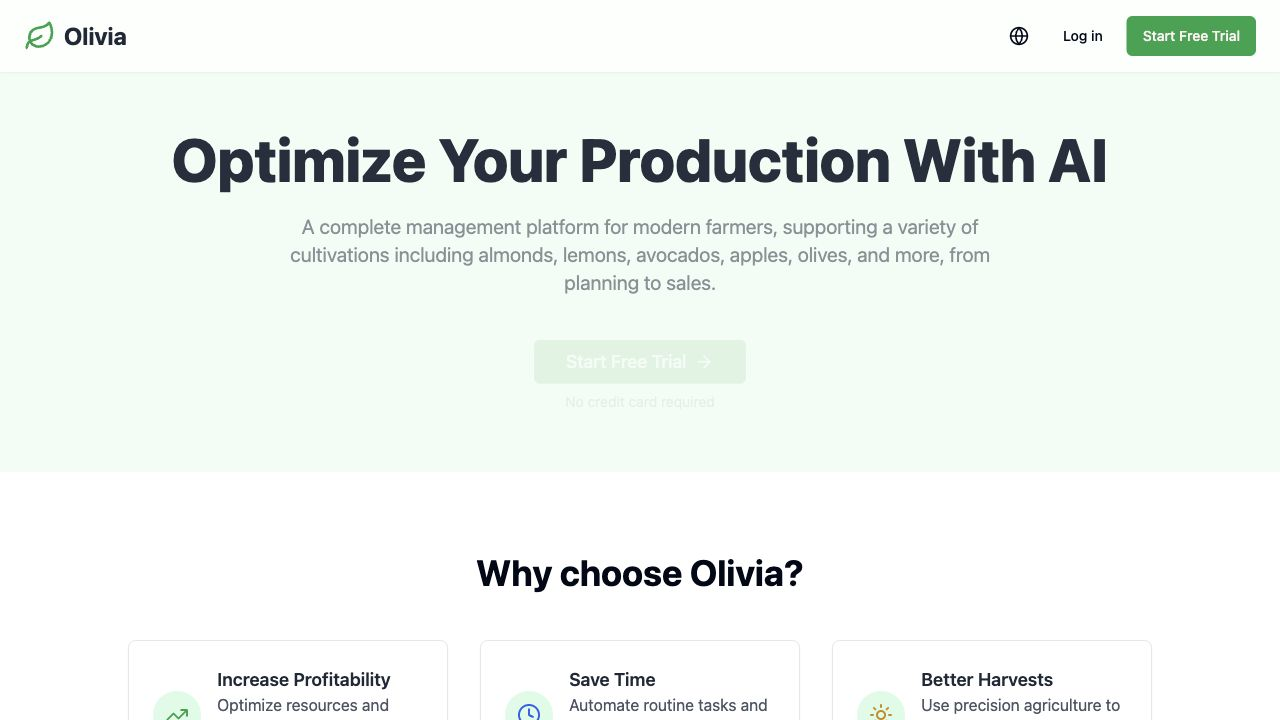
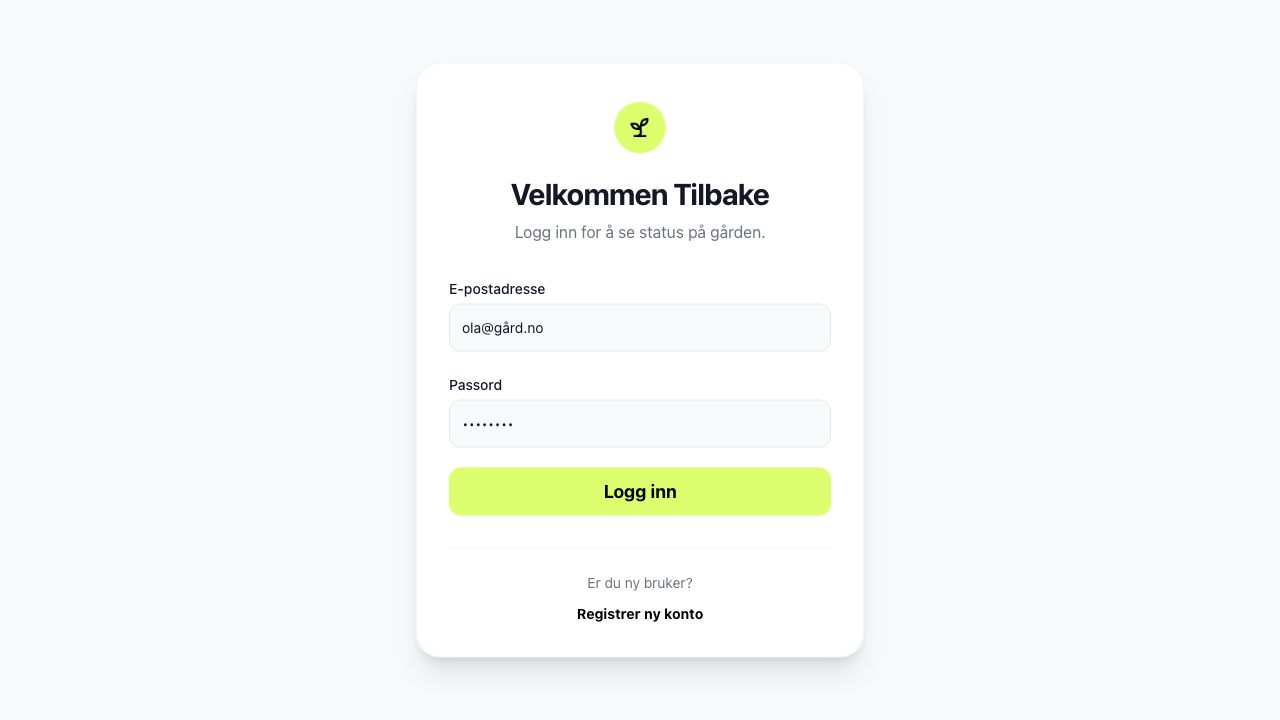
Point Olivia to current login

diff --git a/index.html b/index.html
@@ -128,12 +128,12 @@
           <div class="app-body">
             <div class="app-meta">
               <span>Gårdsdrift og IoT</span>
-              <a href="https://app.donaanna.com/" target="_blank" rel="noopener">app.donaanna.com</a>
+              <a href="https://olivia.donaanna.com/" target="_blank" rel="noopener">olivia.donaanna.com</a>
             </div>
             <h3>Olivia</h3>
-            <p>Gårdsoversikt for IoT-styring, regnskap, produksjon, oppskrifter og sporbar drift for Doña Anna.</p>
+            <p>Login til Olivia gårdsplattform for IoT-styring, regnskap, produksjon, oppskrifter og sporbar drift for Doña Anna.</p>
             <div class="card-actions">
-              <a class="text-link" href="https://app.donaanna.com/" target="_blank" rel="noopener">Åpne app</a>
+              <a class="text-link" href="https://olivia.donaanna.com/" target="_blank" rel="noopener">Åpne login</a>
               <button class="preview-button" type="button" data-preview="assets/apps/olivia.jpg" data-title="Olivia">Forhåndsvis</button>
             </div>
           </div>

diff --git a/olivia.html b/olivia.html
@@ -48,7 +48,7 @@
         <div class="max-w-7xl mx-auto px-6 py-4 flex justify-between items-center">
             <a href="index.html" class="text-sm font-bold tracking-widest text-green-500 hover:text-white transition-colors">← TILBAKE TIL HUB</a>
             <span class="text-xl font-bold tracking-wide text-white">OLIVIA <span class="text-green-500">APP</span></span>
-            <a href="https://app.donaanna.com" class="px-5 py-2 rounded-full bg-green-600 text-black font-bold text-sm hover:bg-green-400 transition-all shadow-[0_0_15px_rgba(34,197,94,0.4)]">
+            <a href="https://olivia.donaanna.com/" class="px-5 py-2 rounded-full bg-green-600 text-black font-bold text-sm hover:bg-green-400 transition-all shadow-[0_0_15px_rgba(34,197,94,0.4)]">
                 LOGG INN GÅRD
             </a>
         </div>

diff --git a/product.html b/product.html
@@ -43,7 +43,7 @@
         <div class="max-w-7xl mx-auto px-6 py-4 flex justify-between items-center">
             <a href="index.html" class="text-sm font-bold tracking-widest text-gray-400 hover:text-white transition-colors">← TILBAKE TIL HUB</a>
             <span class="text-xl font-bold text-transparent bg-clip-text bg-gradient-to-r from-yellow-200 to-yellow-500">ASTRO MASON</span>
-            <a href="https://app.donaanna.com" target="_blank" class="px-4 py-2 text-xs font-bold bg-white text-black rounded-full hover:bg-yellow-400 transition-colors">LAUNCH APP 🚀</a>
+            <a href="https://olivia.donaanna.com/" target="_blank" class="px-4 py-2 text-xs font-bold bg-white text-black rounded-full hover:bg-yellow-400 transition-colors">LAUNCH APP 🚀</a>
         </div>
     </nav>
 